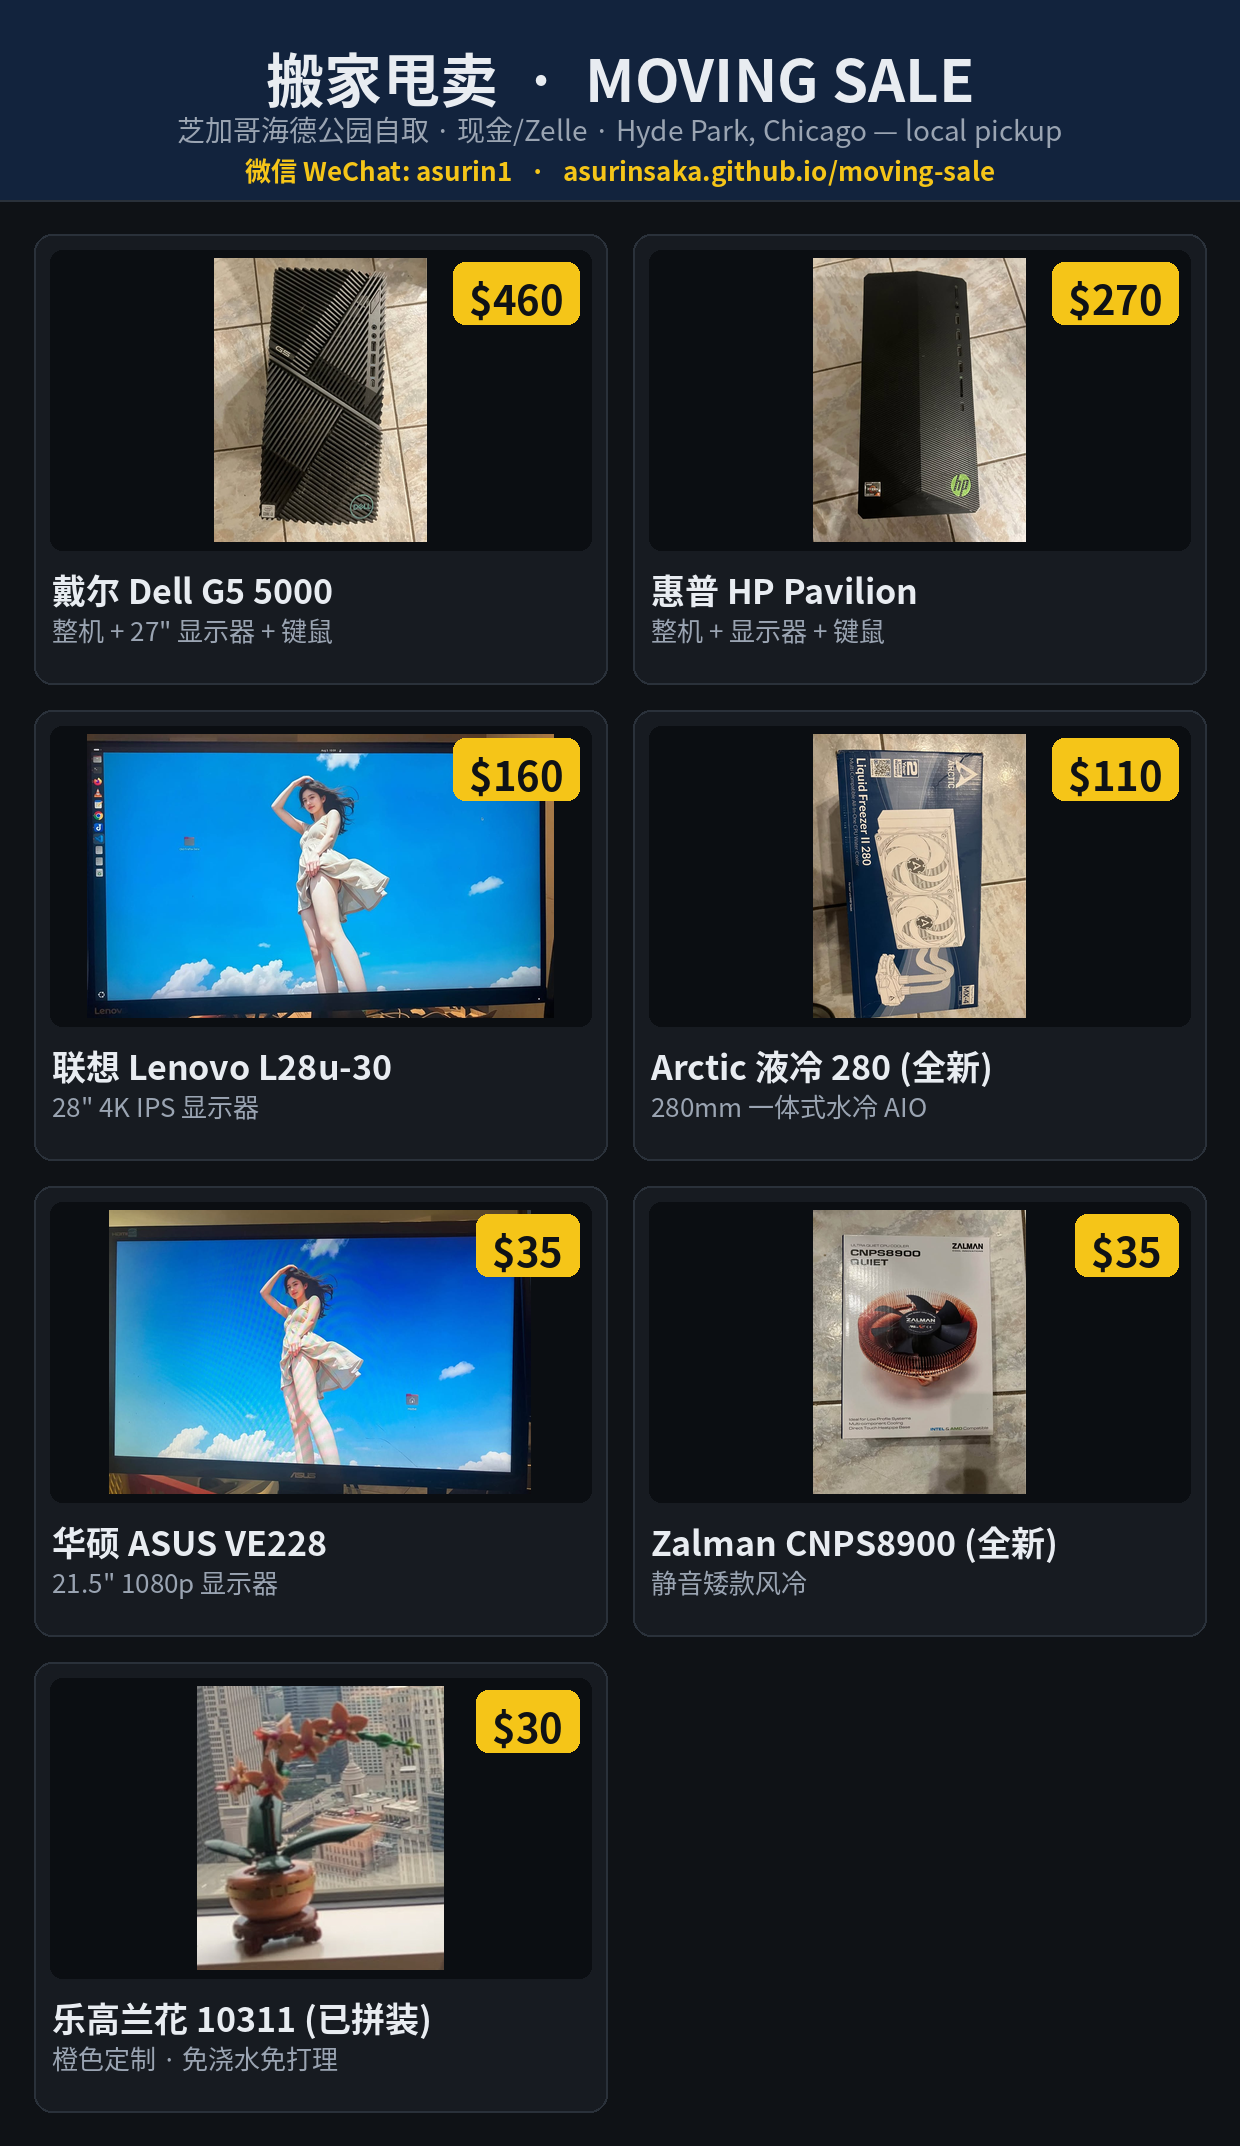
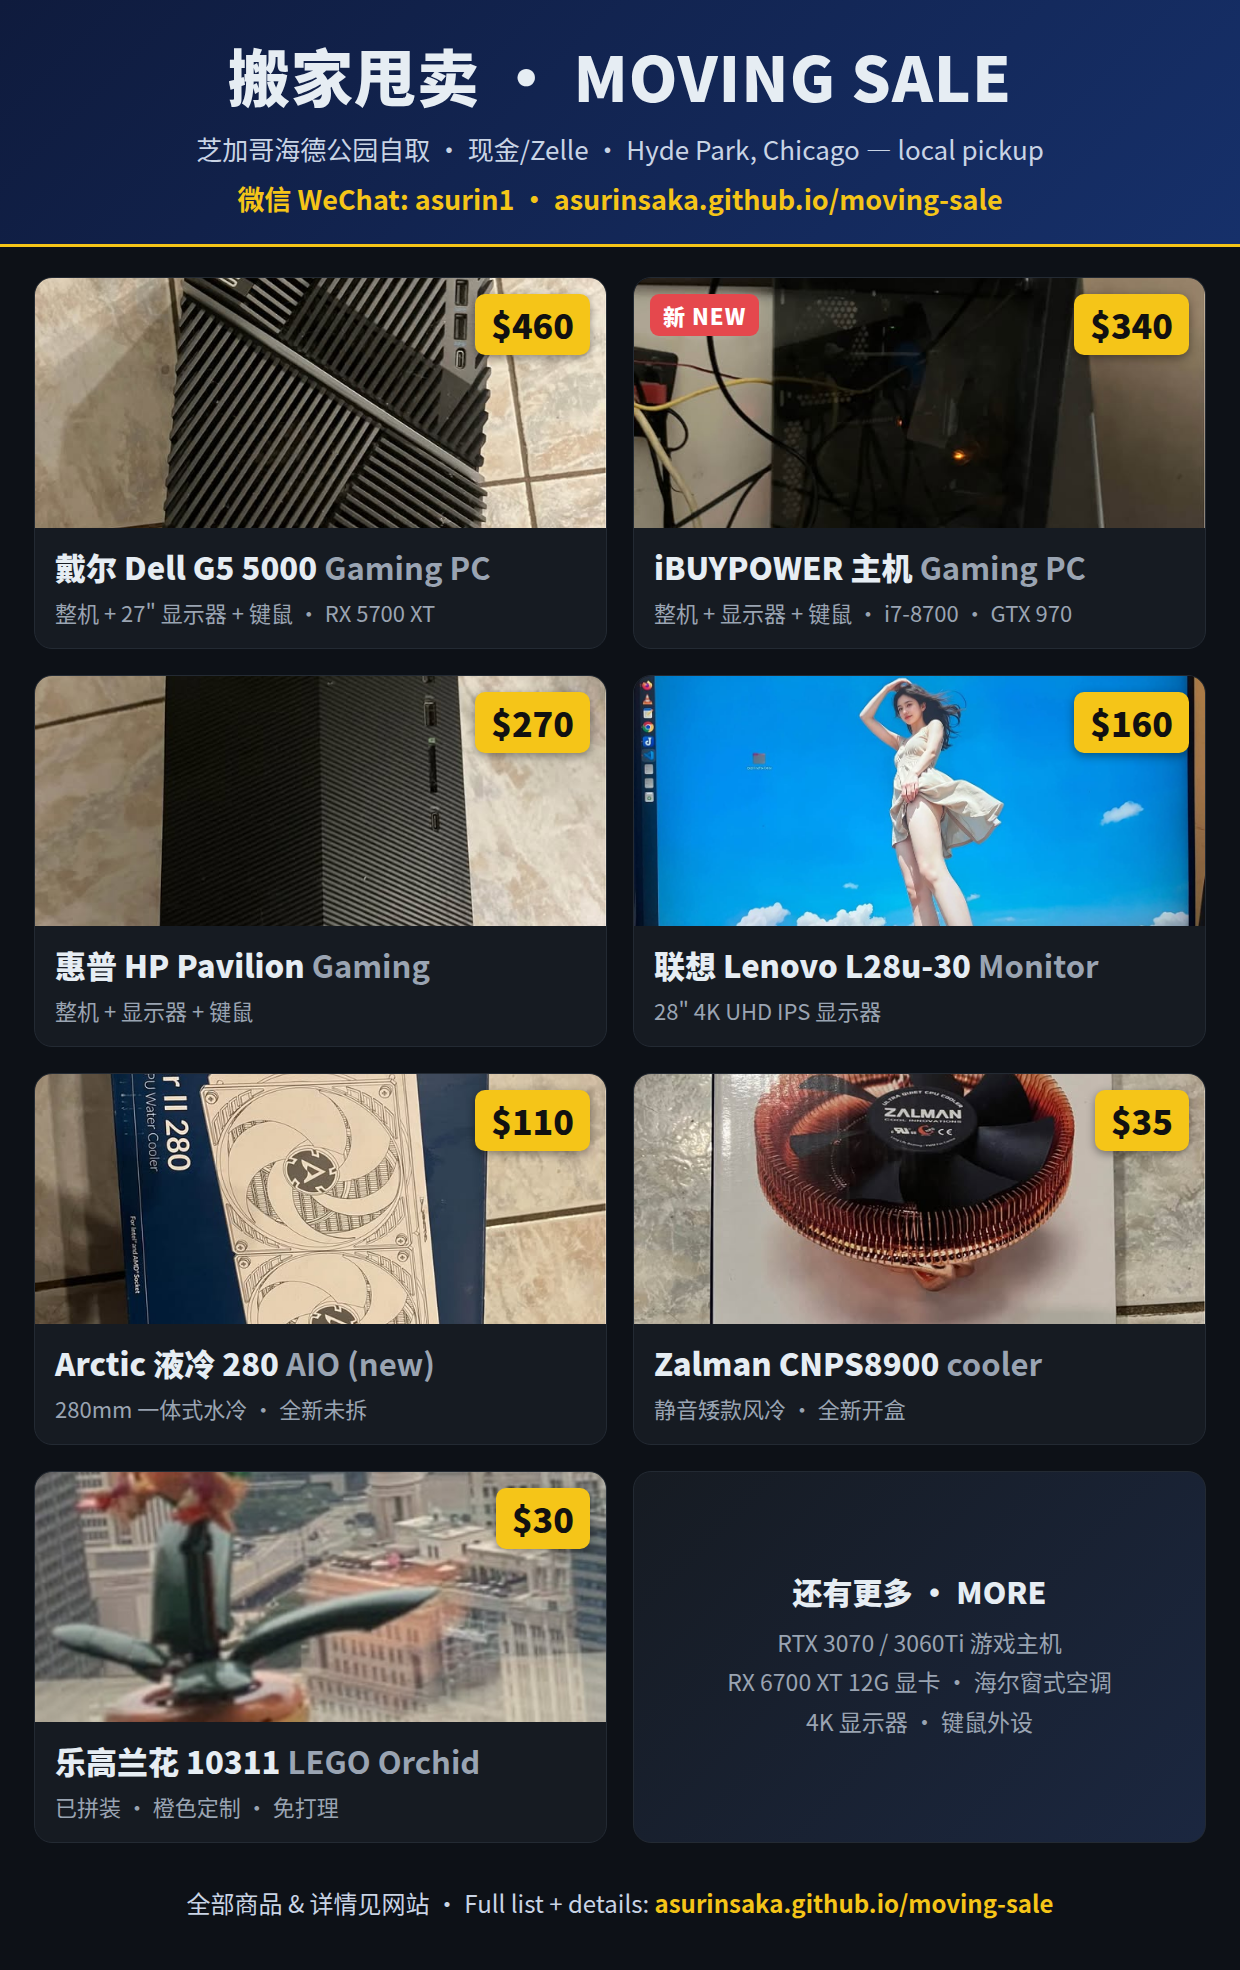
Refresh sale poster: add iBUYPOWER W8700 (NEW), drop bundled VE228
Regenerated the moving-sale poster (poster.html -> headless-Chrome render) with
the current lineup: G5, iBUYPOWER W8700 (new), HP Pavilion, Lenovo 4K monitor,
Arctic AIO, Zalman cooler, LEGO Orchid + a "MORE" card (RTX rigs, RX 6700 XT,
Haier AC). Committed poster.html as the reusable source.

diff --git a/poster.html b/poster.html
@@ -1,0 +1,72 @@
+<!doctype html><html lang="zh"><head><meta charset="utf-8">
+<style>
+  * { margin:0; padding:0; box-sizing:border-box; }
+  html,body { width:1240px; background:#0d1117; }
+  body { font-family:'Noto Sans CJK SC','Noto Serif CJK SC','DejaVu Sans',sans-serif; color:#e6edf3; }
+  .poster { width:1240px; }
+  header {
+    background:linear-gradient(135deg,#0f1b3d,#16306a); padding:30px 40px 26px; text-align:center;
+    border-bottom:3px solid #f5c518;
+  }
+  header h1 { font-size:62px; font-weight:800; letter-spacing:1px; }
+  header .sub { font-size:26px; color:#c9d4e5; margin-top:10px; }
+  header .wx { font-size:27px; color:#f5c518; font-weight:700; margin-top:12px; }
+  .grid { display:grid; grid-template-columns:1fr 1fr; gap:26px; padding:30px 34px 24px; }
+  .card { background:#161b22; border:1px solid #232a33; border-radius:18px; overflow:hidden; position:relative; }
+  .imgwrap { height:250px; background:#0b0e13; position:relative; }
+  .imgwrap img { width:100%; height:100%; object-fit:cover; display:block; }
+  .price { position:absolute; top:16px; right:16px; background:#f5c518; color:#111; font-weight:800;
+           font-size:34px; padding:6px 16px; border-radius:10px; box-shadow:0 3px 10px rgba(0,0,0,.4); }
+  .newtag { position:absolute; top:16px; left:16px; background:#e5484d; color:#fff; font-weight:800;
+            font-size:22px; padding:5px 13px; border-radius:9px; letter-spacing:1px; }
+  .body { padding:16px 20px 20px; }
+  .name { font-size:31px; font-weight:800; }
+  .name .en { color:#9aa4b2; font-weight:600; }
+  .note { font-size:22px; color:#9aa4b2; margin-top:7px; }
+  footer { padding:18px 40px 34px; text-align:center; }
+  footer .more { font-size:24px; color:#c9d4e5; }
+  footer .more b { color:#f5c518; }
+</style></head>
+<body><div class="poster">
+  <header>
+    <h1>搬家甩卖 · MOVING SALE</h1>
+    <div class="sub">芝加哥海德公园自取 · 现金/Zelle · Hyde Park, Chicago — local pickup</div>
+    <div class="wx">微信 WeChat: asurin1 · asurinsaka.github.io/moving-sale</div>
+  </header>
+  <div class="grid">
+    <div class="card"><div class="imgwrap"><img src="electronics/images/g5.jpg"><div class="price">$460</div></div>
+      <div class="body"><div class="name">戴尔 Dell G5 5000 <span class="en">Gaming PC</span></div>
+      <div class="note">整机 + 27" 显示器 + 键鼠 · RX 5700 XT</div></div></div>
+
+    <div class="card"><div class="imgwrap"><img src="electronics/images/ibuypower-w8700.jpg"><div class="newtag">新 NEW</div><div class="price">$340</div></div>
+      <div class="body"><div class="name">iBUYPOWER 主机 <span class="en">Gaming PC</span></div>
+      <div class="note">整机 + 显示器 + 键鼠 · i7-8700 · GTX 970</div></div></div>
+
+    <div class="card"><div class="imgwrap"><img src="electronics/images/hp1.jpg"><div class="price">$270</div></div>
+      <div class="body"><div class="name">惠普 HP Pavilion <span class="en">Gaming</span></div>
+      <div class="note">整机 + 显示器 + 键鼠</div></div></div>
+
+    <div class="card"><div class="imgwrap"><img src="electronics/images/lenovo-l28u.jpg"><div class="price">$160</div></div>
+      <div class="body"><div class="name">联想 Lenovo L28u-30 <span class="en">Monitor</span></div>
+      <div class="note">28" 4K UHD IPS 显示器</div></div></div>
+
+    <div class="card"><div class="imgwrap"><img src="electronics/images/arctic.jpg"><div class="price">$110</div></div>
+      <div class="body"><div class="name">Arctic 液冷 280 <span class="en">AIO (new)</span></div>
+      <div class="note">280mm 一体式水冷 · 全新未拆</div></div></div>
+
+    <div class="card"><div class="imgwrap"><img src="electronics/images/zalman.jpg"><div class="price">$35</div></div>
+      <div class="body"><div class="name">Zalman CNPS8900 <span class="en">cooler</span></div>
+      <div class="note">静音矮款风冷 · 全新开盒</div></div></div>
+
+    <div class="card"><div class="imgwrap"><img src="collectibles/images/lego-orchid-10311.jpg"><div class="price">$30</div></div>
+      <div class="body"><div class="name">乐高兰花 10311 <span class="en">LEGO Orchid</span></div>
+      <div class="note">已拼装 · 橙色定制 · 免打理</div></div></div>
+
+    <div class="card" style="display:flex;align-items:center;justify-content:center;background:linear-gradient(135deg,#161b22,#1b2740);">
+      <div class="body" style="text-align:center">
+        <div class="name" style="font-size:30px">还有更多 · MORE</div>
+        <div class="note" style="font-size:23px;line-height:1.7;margin-top:10px">
+          RTX 3070 / 3060Ti 游戏主机<br>RX 6700 XT 12G 显卡 · 海尔窗式空调<br>4K 显示器 · 键鼠外设</div></div></div>
+  </div>
+  <footer><div class="more">全部商品 & 详情见网站 · Full list + details: <b>asurinsaka.github.io/moving-sale</b></div></footer>
+</div></body></html>
